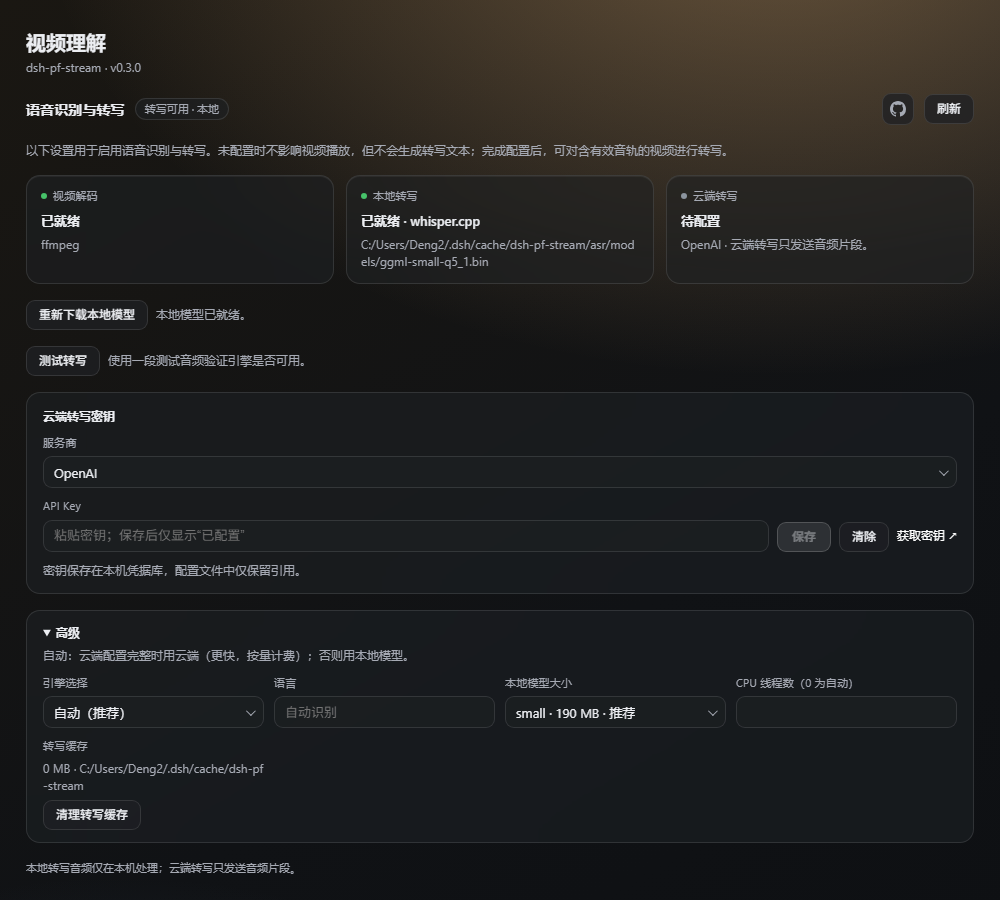
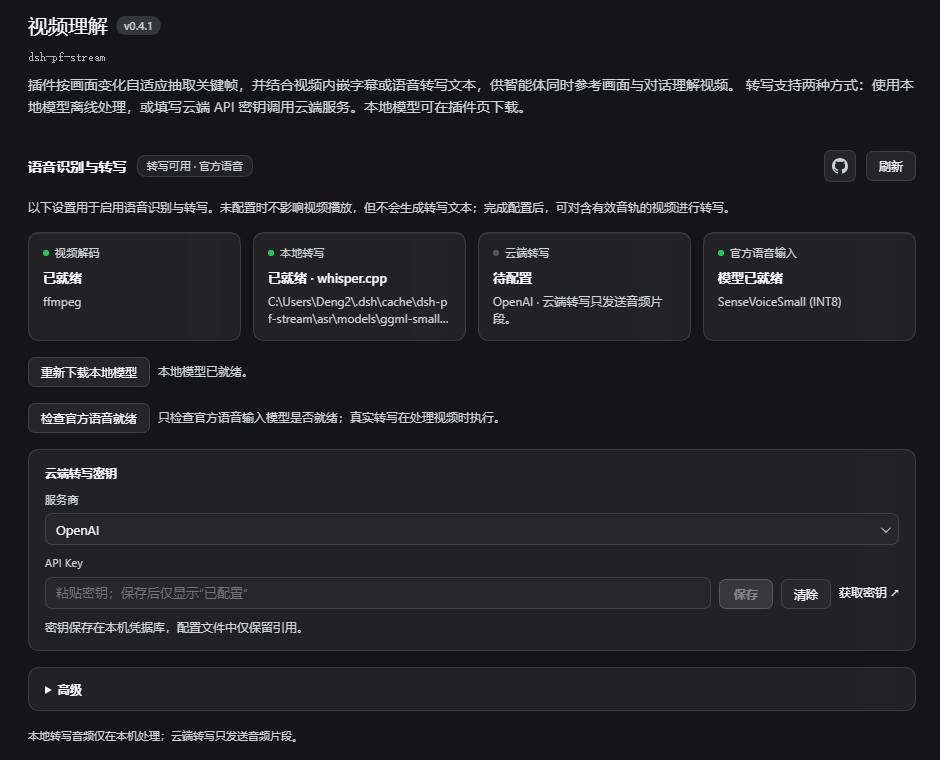
docs: 更新 README 面板插图为 0.4.1 四卡界面

diff --git a/README.en.md b/README.en.md
@@ -79,9 +79,9 @@ The transcription engine decides whether videos without subtitles get speech tex
 
 To open the settings: **Plugins in the left sidebar → Video understanding → the panel below the description**. Use the same path later to change settings.
 
-<p><img src="https://raw.githubusercontent.com/Weilv-D/dsh-pf-stream/main/docs/assets/panel.png" width="720" alt="Transcription settings panel on the plugin detail page: decoder, local transcription and cloud transcription cards"></p>
+<p><img src="https://raw.githubusercontent.com/Weilv-D/dsh-pf-stream/main/docs/assets/panel.png" width="720" alt="Transcription settings panel on the plugin detail page: decoder, local transcription, cloud transcription, and official voice input status cards"></p>
 
-Three cards at the top report video decode (ffmpeg), local transcription, and cloud transcription. When the official voice-input plugin is installed, a fourth "Official voice input" card appears. Pick one path:
+Up to four cards at the top report video decode (ffmpeg), local transcription, cloud transcription, and official voice input. The fourth card appears only when the official voice-input plugin is installed. Pick one path:
 
 | Path | Best for | What to do |
 | :--- | :--- | :--- |

diff --git a/README.md b/README.md
@@ -79,7 +79,7 @@ ffprobe -version
 
 进入配置页：**左侧栏「插件」→ 点「视频理解」→ 详情页描述下方的面板**。以后要改设置，走同一条路。
 
-<p><img src="https://raw.githubusercontent.com/Weilv-D/dsh-pf-stream/main/docs/assets/panel.png" width="720" alt="插件详情页的转写设置面板：视频解码、本地转写与云端转写状态卡"></p>
+<p><img src="https://raw.githubusercontent.com/Weilv-D/dsh-pf-stream/main/docs/assets/panel.png" width="720" alt="插件详情页的转写设置面板：视频解码、本地转写、云端转写与官方语音输入四张状态卡"></p>
 
 面板顶部最多四张状态卡：视频解码（ffmpeg）、本地转写、云端转写；装了官方语音输入插件时还会显示「官方语音输入」卡。按需要选一条路线：
 
